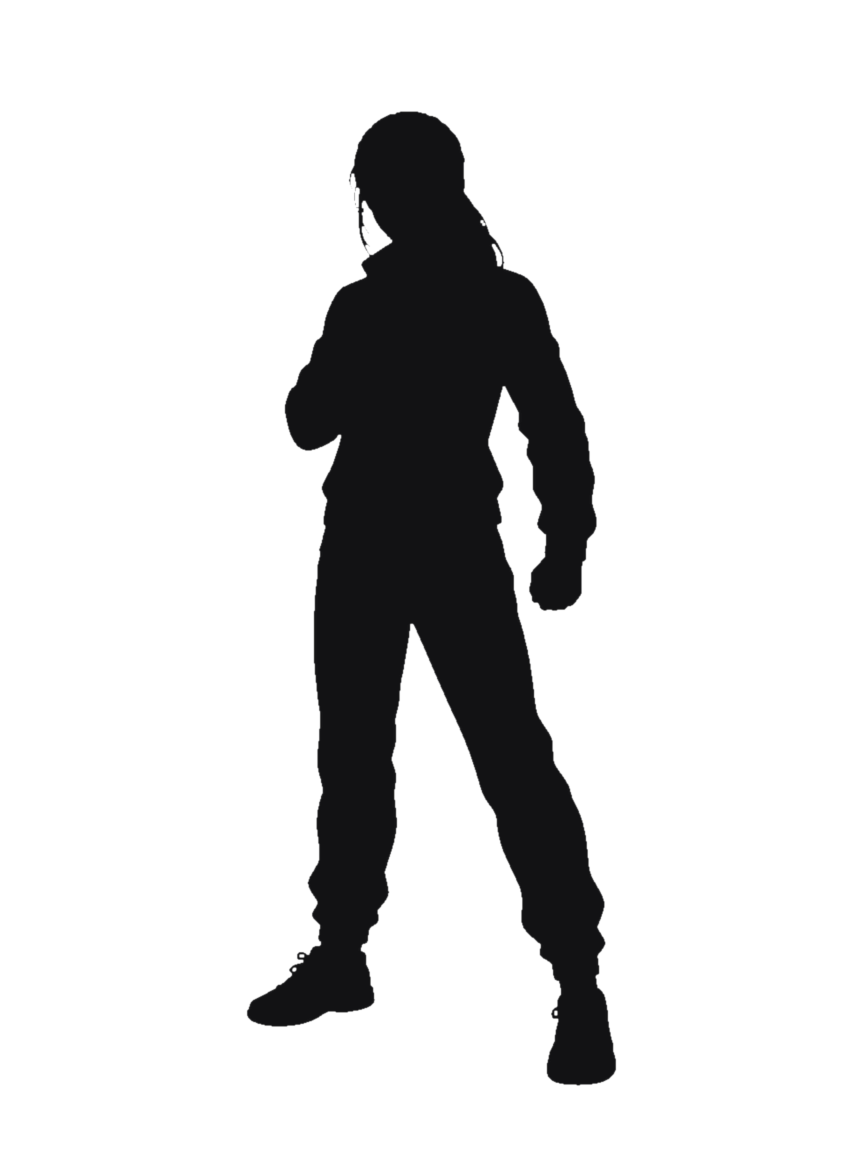
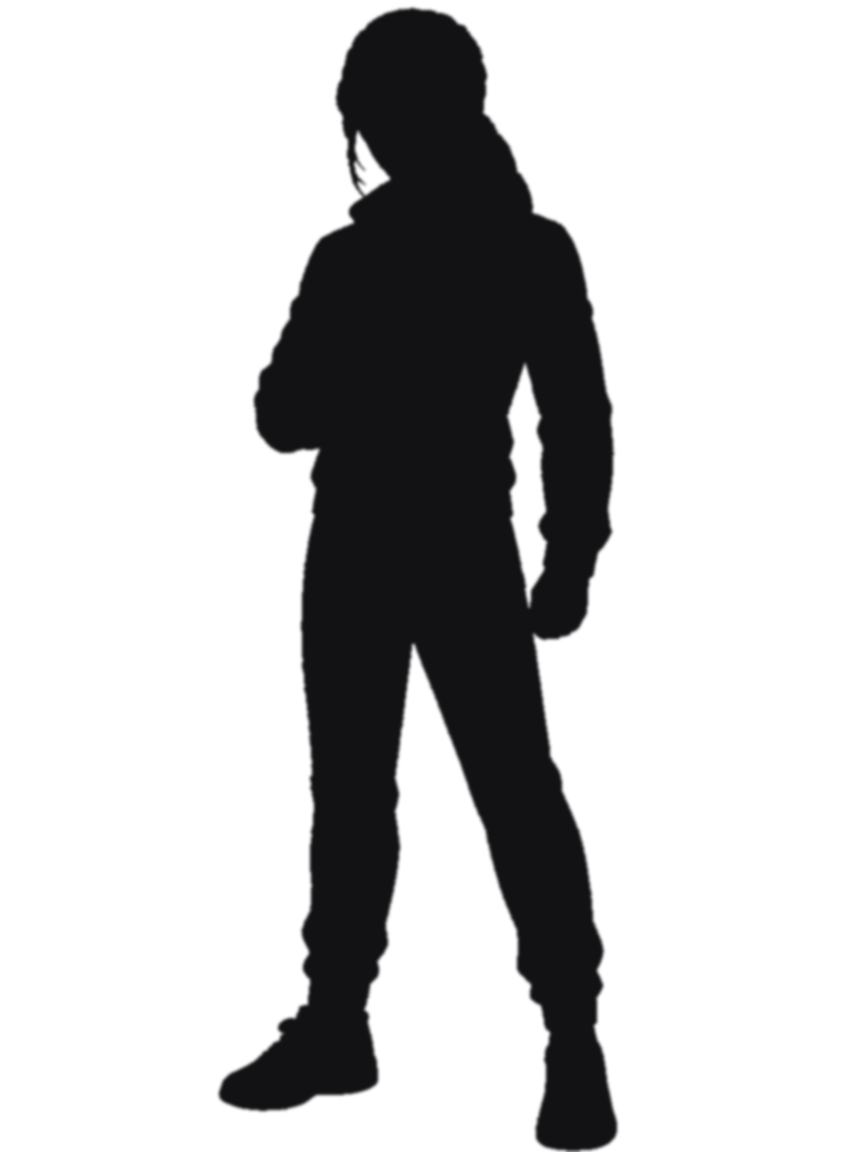
Soft: ngai zip sil Soft nit
Replace only ngai_wingnaam_silhouette_far.png so the Soft far-sight matches the live bust zip collar, low ponytail, and chest zip gesture. Append the Soft nit notes and leave SAVE, ?v=19w, and the other era silhouettes untouched.

Changed region(s): [[0.25, 0.0, 0.7188, 1.0]]

diff --git a/assets/story/era_stars/MANIFEST.md b/assets/story/era_stars/MANIFEST.md
@@ -4,7 +4,7 @@
 > **Brief：** `content/ART_BRIEF_MVP_ERA_STARS_v1.md`  
 > **LOOKS：** `content/PLAN_CHAR_LOOKS_REF_v1.md` §C  
 > **Pipeline：** cursor **GenerateImage**（refs `hero_awi.jpg`＋`char_hero_bust_default.png`）→ Pillow cover-crop **864×1152** PNG  
-> **狀態：** **Soft tip 2026-11-05** — **luk leather v5b**＋**liu chow-vibe v10**＋**yip starlet-v3**＋**so jade-v4**＋**ngai kara-v5**（各 bust×3）。5 人 ×3 表情＝15 live bust。ngai kara-v2 已由 kara-v5 取代，唔再係 live。**Soft nits expr** 已換 so smile／luk smile／ngai×3（bak `bak_pre_soft_nits_expr_20261105/` 唔入本 PR）。**so energy Soft nit** 已換 default＋smile（frown 未動；bak 唔入本 PR）。**ngai age Soft nit** 已換×3（kara-v5 低馬尾＋navy zip 鎖；bak 唔入本 PR）。**silhouettes v2** 5／5 `*_silhouette_far.png` 已入 Soft（bak 唔入本 PR）。**sil Soft polish×3** 已換 yip／so／luk `*_silhouette_far.png`（liu／ngai sil 未動；bak `bak_pre_silhouette_soft_polish_20261105/` 唔入本 PR）。挑眉 `raise_brow` 後排、唔動。Soft≠PASS；**唔 tip LIVE**；**1989–1992 HOLD**；`?v=` 仍 `19w`；SAVE `starVolunteer_map_v19w`
+> **狀態：** **Soft tip 2026-11-05** — **luk leather v5b**＋**liu chow-vibe v10**＋**yip starlet-v3**＋**so jade-v4**＋**ngai kara-v5**（各 bust×3）。5 人 ×3 表情＝15 live bust。ngai kara-v2 已由 kara-v5 取代，唔再係 live。**Soft nits expr** 已換 so smile／luk smile／ngai×3（bak `bak_pre_soft_nits_expr_20261105/` 唔入本 PR）。**so energy Soft nit** 已換 default＋smile（frown 未動；bak 唔入本 PR）。**ngai age Soft nit** 已換×3（kara-v5 低馬尾＋navy zip 鎖；bak 唔入本 PR）。**silhouettes v2** 5／5 `*_silhouette_far.png` 已入 Soft（bak 唔入本 PR）。**sil Soft polish×3** 已換 yip／so／luk `*_silhouette_far.png`（liu sil 未動；ngai sil 當時未動；bak `bak_pre_silhouette_soft_polish_20261105/` 唔入本 PR）。**ngai zip sil Soft nit** 已換 `ngai_wingnaam_silhouette_far.png`（高領 zip／低馬尾／理領；bak `bak_pre_ngai_zip_sil_soft_nit_20261105/` 唔入本 PR）。挑眉 `raise_brow` 後排、唔動。Soft≠PASS；**唔 tip LIVE**；**1989–1992 HOLD**；`?v=` 仍 `19w`；SAVE `starVolunteer_map_v19w`
 
 ## Style-lock MD5（installed live）
 
@@ -34,20 +34,22 @@
 | `yip_manji` | 葉敏芝 | bust×3 + sil **Soft polish** | 864×1152 | **starlet-v3 2026-11-05**：露肩 dusty-rose；邱淑貞／張敏氣質（禁抄臉）；GenerateImage。sil Soft polish（露肩／bare-arm；MD5 `41ef7a1f`）。bak `bak_pre_yip_starlet_v3/` 留盤，唔入本 PR |
 | `so_jiyan` | 蘇芷茵 | bust×3 + `*_silhouette_far.png`（**sil Soft polish**） | 864×1152 | **jade-v4**＋**energy Soft nit 2026-11-05**（default＋smile 更有精神／眼閃；MD5 `2cc1a570`／`e57ab12a`）。frown `f0c0347e` 未動。sil Soft polish（肘外＋手前；MD5 `720e3473`）。bak `bak_pre_so_jade_v4/`＋`bak_pre_soft_nits_expr_20261105/`＋`bak_pre_so_energy_soft_nit_20261105/` 留盤，唔入本 PR |
 | `liu_bingxing` | 廖炳星 | bust×3 + sil **v2** | 864×1152 | **chow-vibe v10 2026-11-05**：花恤衫正面；周星馳氣質（禁抄臉）；GenerateImage。bak `bak_pre_liu_chow_v10/` 留盤，唔入本 PR |
-| `ngai_wingnaam` | 魏詠男 | bust×3 + sil **v2** | 864×1152 | **kara-v5**＋**age Soft nit 2026-11-05×3**（晚三十讀齡↑；低馬尾＋navy zip 統一；MD5 `09f79211`／`8f1abdaf`／`5df4f5fa`）。kara-v2 唔再係 live。bak `bak_pre_ngai_kara_v5/`＋`bak_pre_soft_nits_expr_20261105/`＋`bak_pre_ngai_age_soft_nit_20261105/` 留盤，唔入本 PR |
+| `ngai_wingnaam` | 魏詠男 | bust×3 + sil **zip Soft nit** | 864×1152 | **kara-v5**＋**age Soft nit 2026-11-05×3**（晚三十讀齡↑；低馬尾＋navy zip 統一；MD5 `09f79211`／`8f1abdaf`／`5df4f5fa`）。kara-v2 唔再係 live。sil zip Soft nit（高領 zip／低馬尾／理領；MD5 `899c7f7d`；v2 `31555755`）。bak `bak_pre_ngai_kara_v5/`＋`bak_pre_soft_nits_expr_20261105/`＋`bak_pre_ngai_age_soft_nit_20261105/`＋`bak_pre_ngai_zip_sil_soft_nit_20261105/` 留盤，唔入本 PR |
 
 **Bust 底：** cream studio ~`#F2EBD8`（跟 C1／阿偉）。  
 **本 Soft tip：** 15 live bust PNG 仍在（其中 so smile、luk smile、ngai default／smile／frown 換 Soft nits expr）；另加 5 live `*_silhouette_far.png`。preferFile 仍未加 era_stars bust path。Soft gate（`BehaviorGate.gatePath()==="soft"`）遠觀 modal 喺 distanceLook 之上顯示 `{starId}_silhouette_far.png`；Soft off／LIVE 仍係文字＋音（Phase3 B）。蘇芷茵無地圖遠觀釘（主表仍 4 人）；Soft `__phase3.sight("so_jiyan")` 先開佢張剪影。  
 **bak：** 舊稿留盤，未入本 PR。`bak_pre_silhouette_v2/` 同 `bak_pre_soft_nits_expr_20261105/` **唔入**本 PR。  
 **Silhouette v2（2026-11-05 Asia/Hong_Kong）：** 5／5 `*_silhouette_far.png` GenerateImage→Pillow 864×1152 RGBA 透明底近黑 fill；wardrobe 跟 live bust。`?v=` 仍 `19w`。SAVE `starVolunteer_map_v19w`。
 
-**Silhouette Soft polish（2026-11-05 Asia/Hong_Kong）：** 只換 live `yip_manji`／`so_jiyan`／`luk_baakyin` `*_silhouette_far.png`（對 v2 Soft nits：露肩／bare-arm、肘外＋手前、quiff 體積↑）。`liu_bingxing`／`ngai_wingnaam` silhouette_far **未動**。GenerateImage 彩色全身→Pillow mask RGBA 近黑 `(18,18,20)`、無五官。遠觀 wire 仍係 Soft gate `eraSilhouetteFarSrc` → `assets/story/era_stars/{id}_silhouette_far.png?v=19w`（本 PR 唔改 `index.html`）。bak `bak_pre_silhouette_soft_polish_20261105/`、pngs／preview／bust_refs／QA md／composites **唔入**本 PR。`?v=` 仍 `19w`。SAVE `starVolunteer_map_v19w`。
+**Silhouette Soft polish（2026-11-05 Asia/Hong_Kong）：** 只換 live `yip_manji`／`so_jiyan`／`luk_baakyin` `*_silhouette_far.png`（對 v2 Soft nits：露肩／bare-arm、肘外＋手前、quiff 體積↑）。`liu_bingxing`／`ngai_wingnaam` silhouette_far **當時未動**。GenerateImage 彩色全身→Pillow mask RGBA 近黑 `(18,18,20)`、無五官。遠觀 wire 仍係 Soft gate `eraSilhouetteFarSrc` → `assets/story/era_stars/{id}_silhouette_far.png?v=19w`（本 PR 唔改 `index.html`）。bak `bak_pre_silhouette_soft_polish_20261105/`、pngs／preview／bust_refs／QA md／composites **唔入**本 PR。`?v=` 仍 `19w`。SAVE `starVolunteer_map_v19w`。
+
+**ngai zip sil Soft nit（2026-11-05 Asia/Hong_Kong）：** 只換 live `ngai_wingnaam_silhouette_far.png`（對 v2：高領 zip 外套／低馬尾＋面旁碎髮／胸前理領）。`liu_bingxing`／`yip_manji`／`so_jiyan`／`luk_baakyin` silhouette_far **未動**。864×1152 RGBA 近黑 `(18,18,20)`、無五官。遠觀 wire 仍係 Soft gate `eraSilhouetteFarSrc` → `assets/story/era_stars/{id}_silhouette_far.png?v=19w`（本 PR 唔改 `index.html`、唔抬 `?v=`）。bak `bak_pre_ngai_zip_sil_soft_nit_20261105/`、preview／compare／bust_refs／QA md **唔入**本 PR。`?v=` 仍 `19w`。SAVE `starVolunteer_map_v19w`。
 
 | file | MD5 | note |
 |---|---|---|
 | `luk_baakyin_silhouette_far.png` | `194f29f24122d612682a1478a22c7d32` | Soft polish（quiff↑）；v2 `03fdc270` |
 | `liu_bingxing_silhouette_far.png` | `1238929c711bbdf4fd7252be441554c1` | untouched v2 |
-| `ngai_wingnaam_silhouette_far.png` | `3155575564277cee4ced9ec00c557a48` | untouched v2（zip vs brief Soft nit 記帳） |
+| `ngai_wingnaam_silhouette_far.png` | `899c7f7df3567566f018115a82d89662` | zip sil Soft nit（高領 zip／低馬尾／理領）；v2 `31555755` |
 | `yip_manji_silhouette_far.png` | `41ef7a1fa81d67023a1b15723075d957` | Soft polish（露肩／bare-arm）；v2 `b606c5a1` |
 | `so_jiyan_silhouette_far.png` | `720e34732d52ad85dba179cfd136302b` | Soft polish（肘外＋手前）；v2 `e37e095a` |
 
@@ -65,11 +67,12 @@
 10. **sil v2（已由 Soft polish×3 接）** `so_jiyan` 手藏背後 → 肘外＋手前（MD5 `720e3473`）。殘餘 Soft nit（唔擋）：遠距手位可歧義讀手背後  
 11. **sil v2（已由 Soft polish×3 接）** `luk_baakyin` quiff 體積↑（MD5 `194f29f2`）。殘餘 Soft nit（唔擋）：理領手遠距弱；quiff 可比 bust 再尖  
 12. **sil（唔擋）** 全套無淡場景光邊（純透明底近黑形；同 v2；yip 肩亦無光邊）  
-13. **sil v2（唔擋）** `ngai_wingnaam` zip vs brief sil **未做**（跟 live bust 高領 zip，唔跟舊 brief「短打」字面）；`liu_bingxing` sil 本輪未動
+13. **sil v2（已由 ngai zip sil Soft nit 接）** `ngai_wingnaam` 高領 zip／低馬尾／理領（MD5 `899c7f7d`；v2 `31555755`）。`liu_bingxing` sil 未動
+14. **ngai zip sil Soft nit（唔擋）** 遠距可讀成連帽；理領空隙弱；無光邊
 
 ## Gates
 
-Soft≠PASS｜唔 tip LIVE｜唔 wake iOS｜89–92 HOLD｜silhouettes v2 Soft tip（遠觀只限 Soft gate）｜sil Soft polish×3（yip／so／luk；liu／ngai sil 未動）｜expr nits Soft tip｜so energy Soft nit（default＋smile；frown 未動）｜ngai age Soft nit×3｜raise_brow 後排｜`?v=` 仍 `19w`｜SAVE `starVolunteer_map_v19w`
+Soft≠PASS｜唔 tip LIVE｜唔 wake iOS｜89–92 HOLD｜silhouettes v2 Soft tip（遠觀只限 Soft gate）｜sil Soft polish×3（yip／so／luk）｜ngai zip sil Soft nit（liu／yip／so／luk sil 未動）｜expr nits Soft tip｜so energy Soft nit（default＋smile；frown 未動）｜ngai age Soft nit×3｜raise_brow 後排｜`?v=` 仍 `19w`｜SAVE `starVolunteer_map_v19w`
 
 ## Pack
 
@@ -96,6 +99,8 @@ Soft≠PASS｜唔 tip LIVE｜唔 wake iOS｜89–92 HOLD｜silhouettes v2 Soft t
 `/workspace/star-volunteer-web-ngai-age-soft-nit.tar.gz`（只換 live `ngai_wingnaam` bust×3；bak／QA md 唔入本 PR）
 
 `/workspace/star-volunteer-web-era-sil-soft-polish.tar.gz`（只換 live yip／so／luk `*_silhouette_far.png`；`bak_pre_silhouette_soft_polish_20261105/`、pngs／preview／bust_refs／QA md／composites 唔入本 PR）
+
+`/workspace/star-volunteer-web-ngai-zip-sil-soft-nit.tar.gz`（只換 live `ngai_wingnaam_silhouette_far.png`；`bak_pre_ngai_zip_sil_soft_nit_20261105/`、preview／compare／bust_refs／QA md 唔入本 PR）
 
 ## Related
 
@@ -136,3 +141,13 @@ Soft≠PASS｜唔 tip LIVE｜唔 wake iOS｜89–92 HOLD｜silhouettes v2 Soft t
 - Soft nits（唔擋 Soft tip）：luk 理領手遠距弱、quiff 可比 bust 再尖；so 遠距手位可歧義讀手背後；yip 肩凹、無光邊；全套無淡場景光邊；ngai zip sil 未做；liu 未動
 - QC：統籌 Style PASS with nits。Soft≠PASS｜唔 tip LIVE｜唔抬 ?v=｜89–92 HOLD
 - Pack：`/workspace/star-volunteer-web-era-sil-soft-polish.tar.gz` MD5 `98e924eceddf948a0e3478a64f49958c`
+
+## ngai zip sil Soft nit 2026-11-05 (Asia/Hong_Kong)
+- 只換 live：`ngai_wingnaam_silhouette_far.png` MD5 `899c7f7df3567566f018115a82d89662`（864×1152 RGBA）
+- 唔動：`liu_bingxing_silhouette_far.png` `1238929c711bbdf4fd7252be441554c1`；`yip_manji_silhouette_far.png` `41ef7a1fa81d67023a1b15723075d957`；`so_jiyan_silhouette_far.png` `720e34732d52ad85dba179cfd136302b`；`luk_baakyin_silhouette_far.png` `194f29f24122d612682a1478a22c7d32`。bust×15、core sil、index、gigs、`index.html`、SAVE／`?v=` 未動
+- 對開 v2：`3155575564277cee4ced9ec00c557a48`。bak `bak_pre_ngai_zip_sil_soft_nit_20261105/` 留盤、唔入本 PR
+- 目標：對齊 live bust zip／高領／低馬尾／理領（近黑 fill `(18,18,20)`、無五官）
+- Soft nits（唔擋 Soft tip）：遠距可讀成連帽；理領空隙弱；無光邊
+- QC：統籌 Style PASS with nits。Soft≠PASS｜唔 tip LIVE｜唔抬 ?v=｜89–92 HOLD
+- 遠觀 wire 仍係 `eraSilhouetteFarSrc` → `assets/story/era_stars/{id}_silhouette_far.png?v=19w`（本 PR 唔改碼）
+- Pack：`/workspace/star-volunteer-web-ngai-zip-sil-soft-nit.tar.gz` MD5 `35e00f8052a144e2283b43e2d584db44`

diff --git a/assets/STYLE_CANON.md b/assets/STYLE_CANON.md
@@ -57,7 +57,9 @@
 
 - 2026-11-05 Soft nits expr：`so_jiyan_bust_smile`＋`luk_baakyin_bust_smile`＋`ngai_wingnaam` bust×3；GenerateImage；bak `era_stars/bak_pre_soft_nits_expr_20261105/` 留盤、唔入本 PR；挑眉 `char_hero_bust_raise_brow` 未入本 pack、唔動；Soft≠PASS；唔 tip LIVE；`?v=` 仍 `19w`；89–92 HOLD。
 
-- 2026-11-05 era sil Soft polish×3：`{yip_manji,so_jiyan,luk_baakyin}_silhouette_far.png` redo（露肩／bare-arm、肘外＋手前、quiff↑）；`liu`／`ngai` sil 未動；GenerateImage 彩色全身→Pillow RGBA 近黑 `(18,18,20)`；bak `era_stars/bak_pre_silhouette_soft_polish_20261105/` 留盤、唔入本 PR；pack `/workspace/star-volunteer-web-era-sil-soft-polish.tar.gz`；Soft≠PASS；唔 tip LIVE；`?v=` 仍 `19w`；89–92 HOLD。
+- 2026-11-05 era sil Soft polish×3：`{yip_manji,so_jiyan,luk_baakyin}_silhouette_far.png` redo（露肩／bare-arm、肘外＋手前、quiff↑）；`liu`／`ngai` sil 當時未動；GenerateImage 彩色全身→Pillow RGBA 近黑 `(18,18,20)`；bak `era_stars/bak_pre_silhouette_soft_polish_20261105/` 留盤、唔入本 PR；pack `/workspace/star-volunteer-web-era-sil-soft-polish.tar.gz`；Soft≠PASS；唔 tip LIVE；`?v=` 仍 `19w`；89–92 HOLD。
+
+- 2026-11-05 ngai zip sil Soft nit：只換 `ngai_wingnaam_silhouette_far.png` MD5 `899c7f7d`（對 v2 `31555755`：高領 zip／低馬尾／理領）；liu／yip／so／luk sil 未動；864×1152 RGBA 近黑 `(18,18,20)`、無五官；bak `era_stars/bak_pre_ngai_zip_sil_soft_nit_20261105/` 留盤、唔入本 PR；遠觀 wire 仍 `?v=19w`、唔改 `index.html`；Soft nits（唔擋）：遠距可讀成連帽；理領空隙弱；無光邊；Soft≠PASS；唔 tip LIVE；89–92 HOLD。
 
 ## raise_brow Soft nit（2026-11-05 Asia/Hong_Kong）
 
@@ -103,3 +105,14 @@
 - Soft nits（唔擋 Soft tip）：luk 理領手遠距弱、quiff 可比 bust 再尖；so 遠距手位可歧義讀手背後；yip 肩凹、無光邊；全套無淡場景光邊；ngai zip sil 未做；liu 未動
 - Soft≠PASS；唔 tip LIVE；`?v=` 仍 `19w`；SAVE `starVolunteer_map_v19w`；89–92 HOLD
 - Pack：`/workspace/star-volunteer-web-era-sil-soft-polish.tar.gz`
+
+## ngai zip sil Soft nit（2026-11-05 Asia/Hong_Kong）
+
+- 只換：`story/era_stars/ngai_wingnaam_silhouette_far.png` MD5 `899c7f7df3567566f018115a82d89662`（864×1152 RGBA）
+- 唔動：`liu_bingxing_silhouette_far.png` `1238929c`；`yip_manji_silhouette_far.png` `41ef7a1f`；`so_jiyan_silhouette_far.png` `720e3473`；`luk_baakyin_silhouette_far.png` `194f29f2`。bust×15、core sil、`index.html`、gigs 未動
+- 對開 v2 `3155575564277cee4ced9ec00c557a48`。近黑 fill `(18,18,20)`、無五官。bak `era_stars/bak_pre_ngai_zip_sil_soft_nit_20261105/` 留盤、唔入本 PR
+- 目標：對齊 live bust zip／高領／低馬尾／理領
+- Soft 遠觀仍掛 `eraSilhouetteFarSrc` → `assets/story/era_stars/{id}_silhouette_far.png?v=19w`（本輪唔改碼、唔抬 `?v=`）
+- Soft nits（唔擋 Soft tip）：遠距可讀成連帽；理領空隙弱；無光邊
+- QC：統籌 Style PASS with nits。Soft≠PASS；唔 tip LIVE；`?v=` 仍 `19w`；SAVE `starVolunteer_map_v19w`；89–92 HOLD
+- Pack：`/workspace/star-volunteer-web-ngai-zip-sil-soft-nit.tar.gz` MD5 `35e00f8052a144e2283b43e2d584db44`
